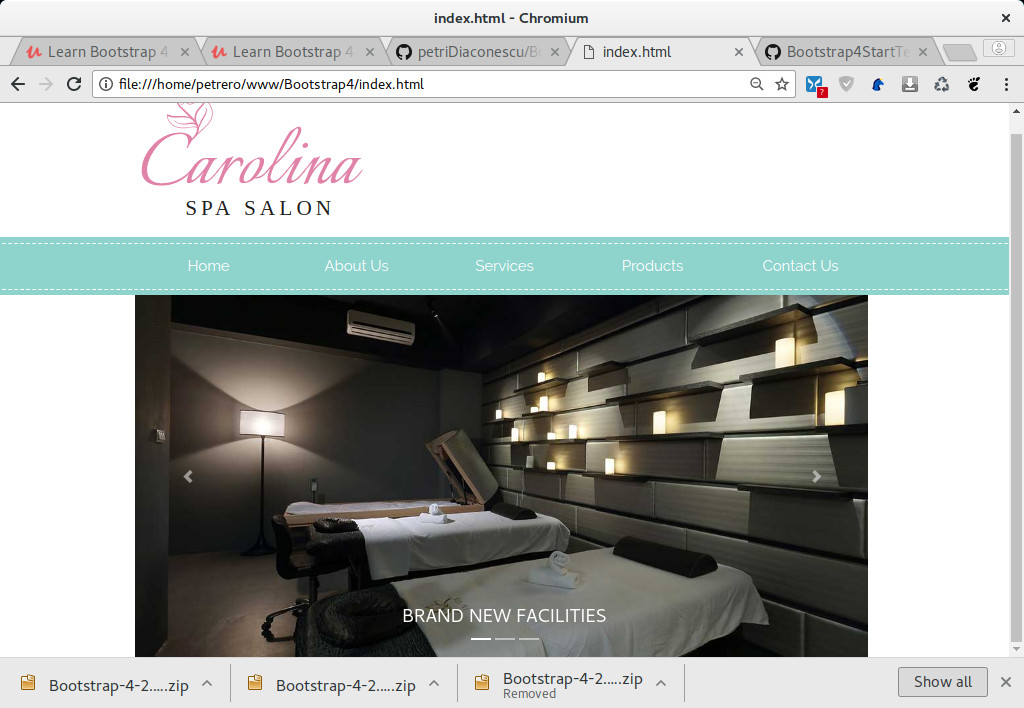
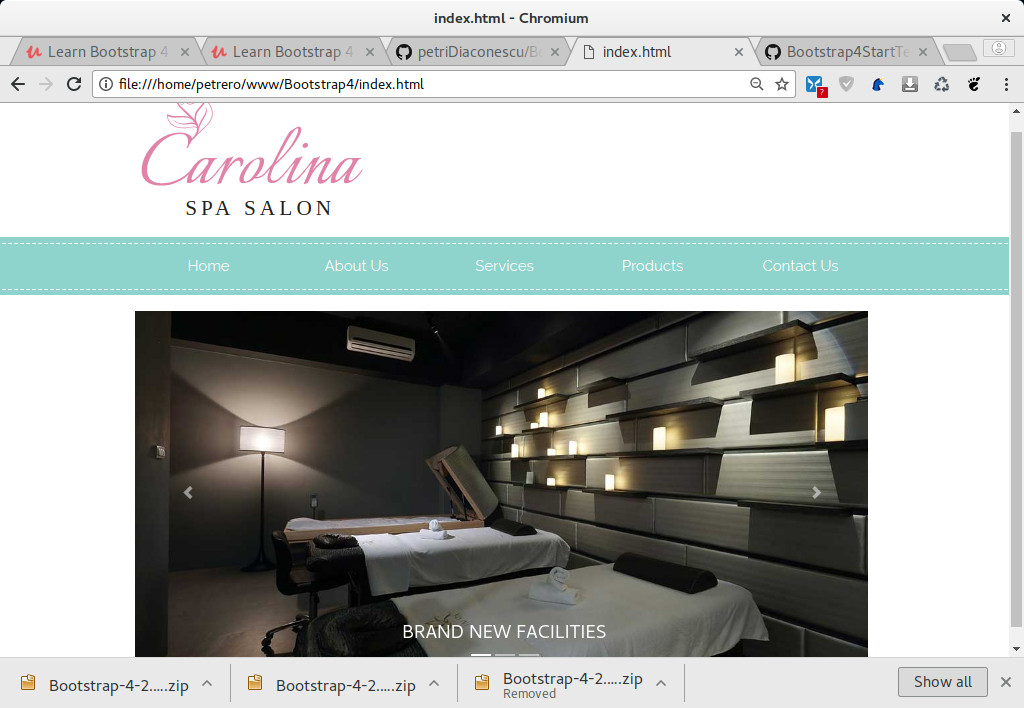
Change the style of the caption carousel text.

Changed region(s): [[0.125, 0.404, 0.8438, 0.9322], [0.9688, 0.8701, 1.0, 0.9011]]

diff --git a/css/styles.css b/css/styles.css
@@ -24,3 +24,10 @@ nav.main-nav .nav-link {
   color: #fff;
   font-family: 'Raleway', sans-serif;
 }
+
+/** Carousel */
+.carousel .carousel-caption h3 {
+  font-family: 'Raleway', sans-serif;
+  font-size: 2rem;
+  font-weight: 700;
+}
